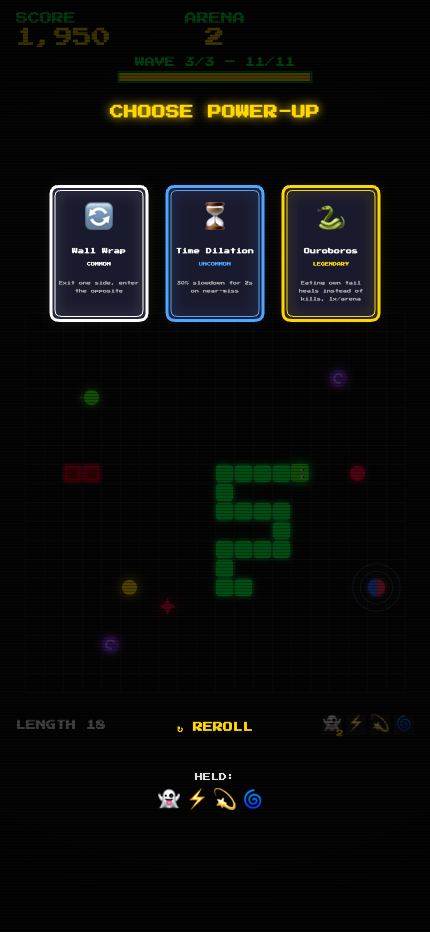
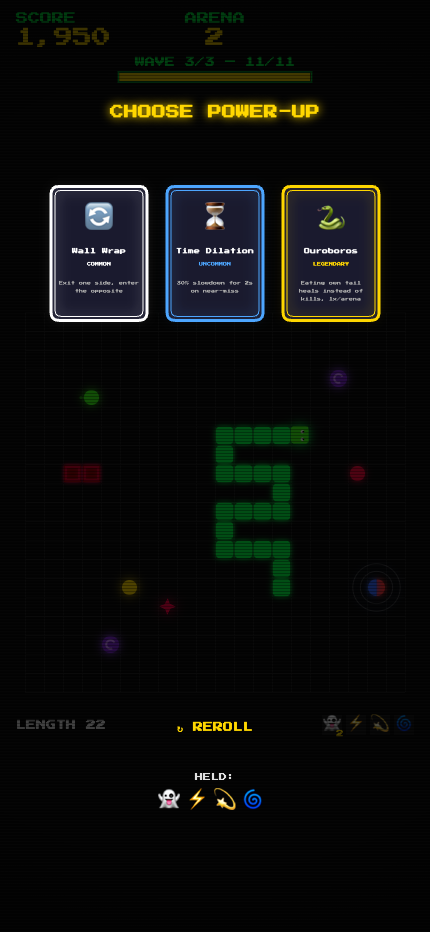
fix: add longer 22-segment snake to powerup screenshot for continuity

Changed region(s): [[0.4837, 0.4356, 0.7256, 0.6534]]

diff --git a/src/game/Game.ts b/src/game/Game.ts
@@ -2262,6 +2262,35 @@ export class Game {
     this.score = 1950;
     this.totalFoodEaten = 48;
 
+    // Snake grew from 18 to 22 after eating 16 more food to clear A2
+    const segments = [
+      { x: 14, y: 6 },  // head
+      { x: 13, y: 6 },
+      { x: 12, y: 6 },
+      { x: 11, y: 6 },
+      { x: 10, y: 6 },
+      { x: 10, y: 7 },
+      { x: 10, y: 8 },
+      { x: 11, y: 8 },
+      { x: 12, y: 8 },
+      { x: 13, y: 8 },
+      { x: 13, y: 9 },
+      { x: 13, y: 10 },
+      { x: 12, y: 10 },
+      { x: 11, y: 10 },
+      { x: 10, y: 10 },
+      { x: 10, y: 11 },
+      { x: 10, y: 12 },
+      { x: 11, y: 12 },
+      { x: 12, y: 12 },
+      { x: 13, y: 12 },
+      { x: 13, y: 13 },
+      { x: 13, y: 14 },
+    ];
+    this.snake = new Snake({ x: 14, y: 6 }, 1, Direction.RIGHT);
+    this.snake.segments = segments;
+    this.snake.previousSegments = segments.map(s => ({ ...s }));
+
     // Hand-pick visually interesting offerings with rarity variety
     const offerings = [
       POWERUP_DEFS.find(d => d.id === PowerUpId.WALL_WRAP)!,      // Common (white)
